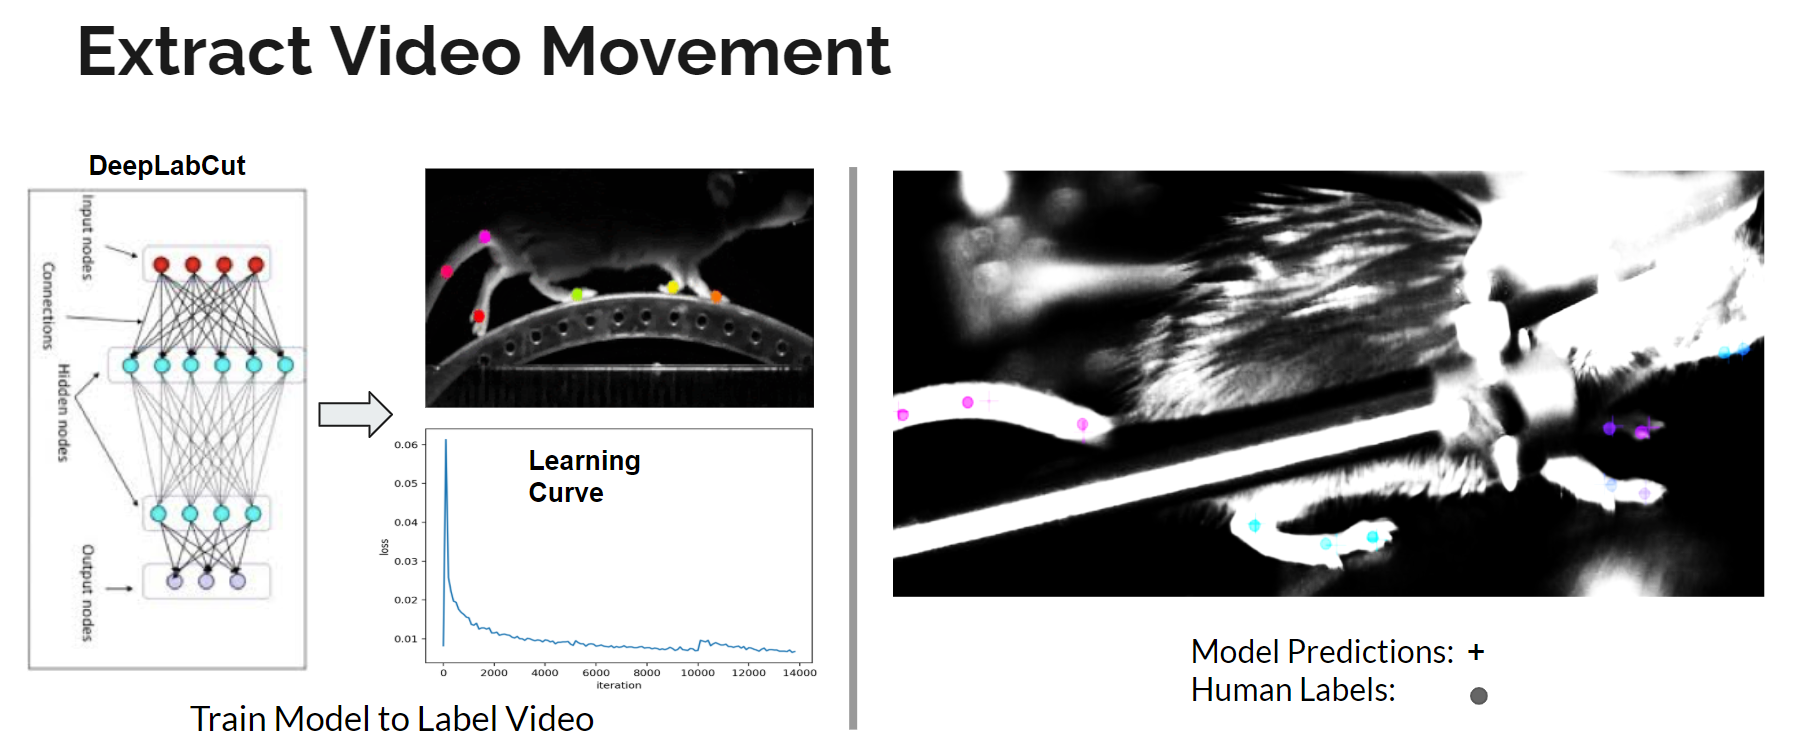
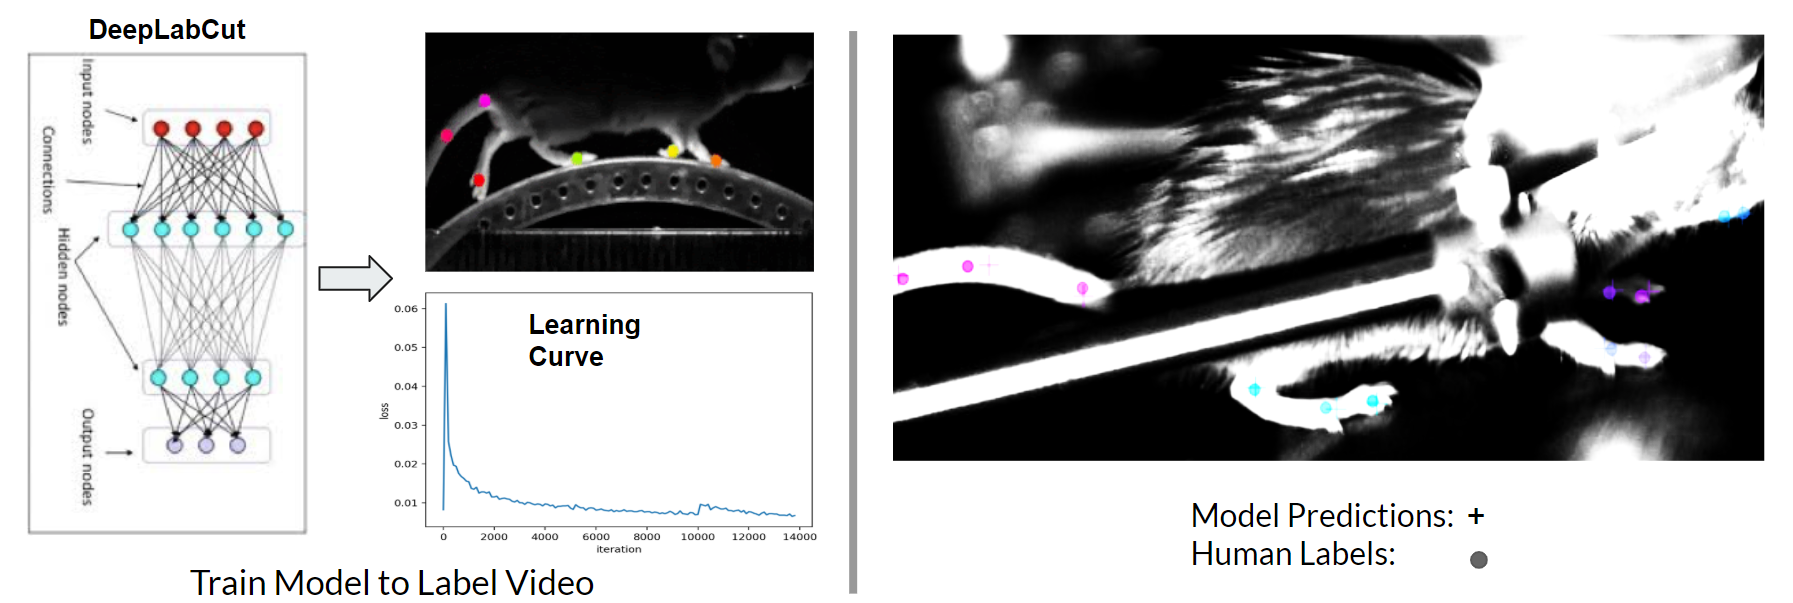
changes to neuron project

diff --git a/_projects/neuro_movement.md b/_projects/neuro_movement.md
@@ -13,6 +13,6 @@ This is research project collaborated between Rice University and Baylor College
 
 The data used has not been published and multiple teammates have contributed to this projects. Therefore, instead of source code, a <a href='http://yuchong-zhang.github.io/files/neuron_movement.pdf'>poster link</a> is provided. The project gained wide recognition and won <a href='https://news.rice.edu/2018/12/03/from-urban-flooding-to-mouse-brains-d2k-students-take-on-big-data/'>the inaugural D2K Learning Lab Showcase</a> at Rice.
 
-#<img class="alignnone  wp-image-577" alt="showcase" src="https://yuchong-zhang.github.io/images/DeepLabCut.png" width="844" height="348"/>
+<img class="alignnone  wp-image-577" alt="showcase" src="https://yuchong-zhang.github.io/images/DeepLabCut.png" width="844" height="284"/>
 
 <img class="alignnone  wp-image-577" alt="showcase" src="https://yuchong-zhang.github.io/images/showcase.jpeg" width="844" height="473"/>
